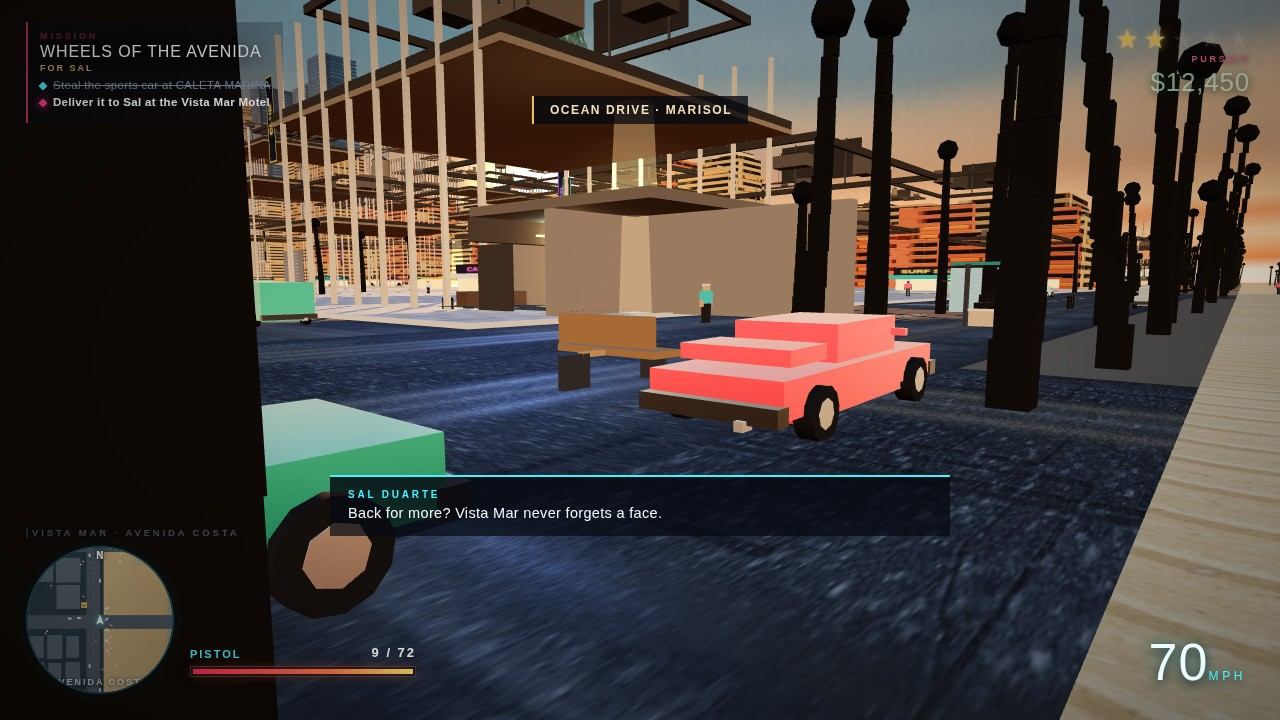
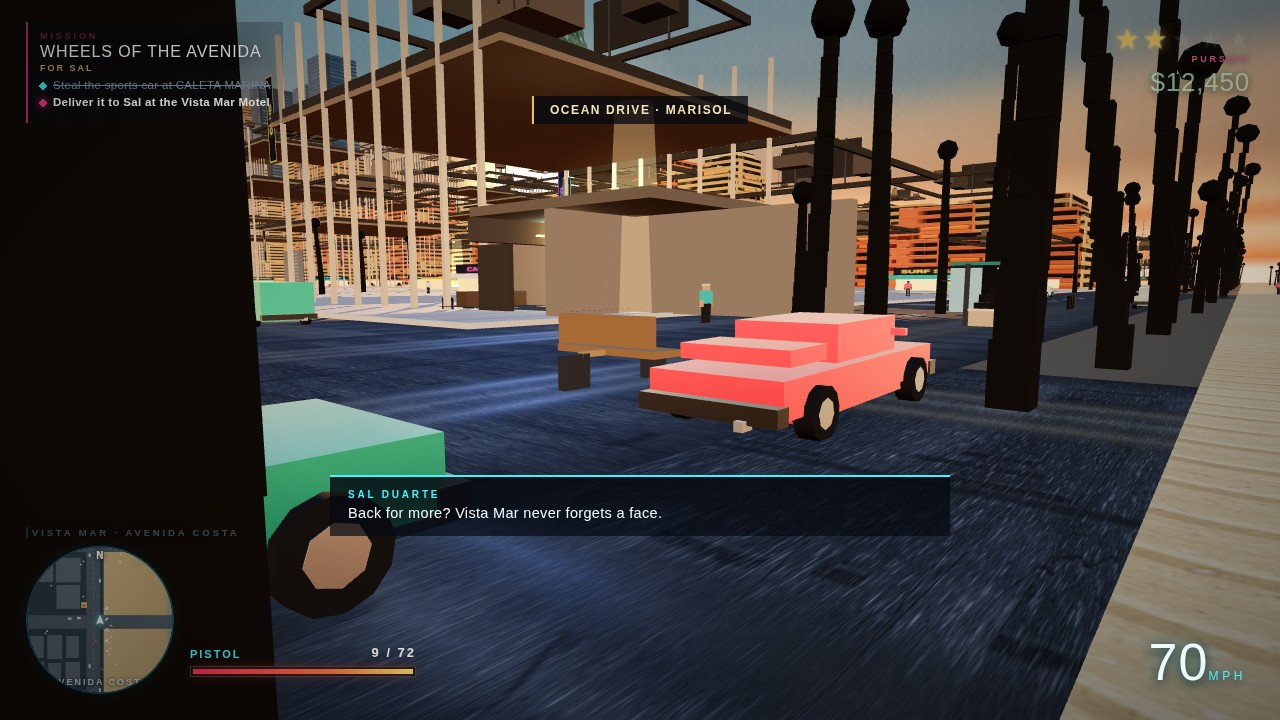
Raise road and pavement texel density so grain and paving joints survive mipmapping, and sharpen the relief

diff --git a/game/src/roads.js b/game/src/roads.js
@@ -142,7 +142,12 @@ export function buildRoadNetwork(rng) {
   }
 
   const roadTex = asphaltTexture(rng);
+  // One tile over an 18 m road leaves each texel larger than a screen pixel, so mipmapping
+  // averages the grain, the tar seams and the wheel tracks into featureless grey. Six
+  // repeats along the carriageway keep texel density up where the near field is seen.
+  roadTex.repeat.set(1, 4);
   const roadBump = asphaltBumpTexture();
+  roadBump.repeat.set(1, 4);
   // bump and colour share one 18 m tile and one wrap mode, so the relief never creeps
   // relative to the paint that explains it
   roadBump.repeat.copy(roadTex.repeat);
@@ -151,7 +156,9 @@ export function buildRoadNetwork(rng) {
   roadRough.repeat.copy(roadTex.repeat);
   roadRough.wrapS = roadRough.wrapT = roadTex.wrapS;
   const roadMat = new THREE.MeshStandardMaterial({
-    map: roadTex, bumpMap: roadBump, bumpScale: 0.075,
+    // 0.075 was far too shallow: at 1280x720 the relief never crossed the edge threshold,
+    // so the asphalt read as flat paint no matter how much grain was painted into it.
+    map: roadTex, bumpMap: roadBump, bumpScale: 0.28,
     roughnessMap: roadRough, roughness: 1.0, metalness: 0.06, color: 0xffffff,
   });
   const roads = new THREE.Mesh(mergeGeometries(asphaltParts), roadMat);
@@ -166,11 +173,16 @@ export function buildRoadNetwork(rng) {
   group.add(paint);
 
   const paveTex = pavementTexture(rng);
+  // Slabs were stretched the same way the carriageway was: one tile over the whole run,
+  // so the joints mip-averaged away into a flat wash. Repeat so the paving reads.
+  paveTex.repeat.set(1, 5);
   const paveBump = pavementBumpTexture();
+  paveBump.repeat.set(1, 5);
   paveBump.repeat.copy(paveTex.repeat);
   paveBump.wrapS = paveBump.wrapT = paveTex.wrapS;
   const paveMat = new THREE.MeshStandardMaterial({
-    map: paveTex, bumpMap: paveBump, bumpScale: 0.05,
+    // Pavement joints need to bite: a 0.05 relief left the slabs reading as one flat wash.
+    map: paveTex, bumpMap: paveBump, bumpScale: 0.2,
     roughness: 0.85, metalness: 0.0,
   });
   const pavements = new THREE.Mesh(mergeGeometries(pavementParts), paveMat);

diff --git a/game/src/textures.js b/game/src/textures.js
@@ -470,7 +470,10 @@ function heightField(W, H, paint) {
   ctx.putImageData(img, 0, 0);
   const t = new THREE.CanvasTexture(c);
   t.wrapS = t.wrapT = THREE.RepeatWrapping;
-  t.anisotropy = 4;
+  // Relief is the micro-detail that survives to the far end of a road, so it needs MORE
+  // grazing-angle filtering than the colour map, not less: at 4 the bump blurred into a
+  // flat wash exactly where the frame needs texture most.
+  t.anisotropy = 16;
   t.needsUpdate = true;
   return t;
 }

diff --git a/game/src/main.js b/game/src/main.js
@@ -53,6 +53,7 @@ function makeRenderer() {
   // pavement instead of compressing everything into flat midtones.
   renderer.toneMappingExposure = 1.38;
   renderer.outputColorSpace = THREE.SRGBColorSpace;
+
   window.addEventListener('resize', () => {
     const w = window.innerWidth, hgt = window.innerHeight;
     renderer.setSize(w, hgt, false);
